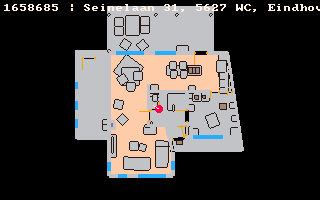
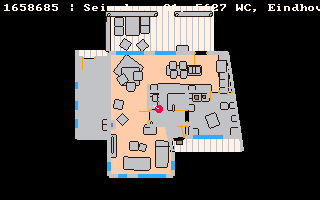
floorplan: don't drop furniture by size; gentler furniture bake
- fml2cart: --maxfurn 0 (the dynamic default now) keeps ALL items — real floor
  coverings live in surfaces[] (rs-####), so items[] are genuine objects and the
  280cm cap was wrongly dropping normal sofas/beds. Positive --maxfurn still caps.
- floorplanner dynamic bake: --saturate 1.4, no posterize (was 2.2/5) — small
  footprints + heavy saturation turned furniture into rainbow confetti.

diff --git a/fmltools/fml2cart.js b/fmltools/fml2cart.js
@@ -156,13 +156,14 @@ for (const a of areas) {
   ai++;
 }
 
-// ---- furniture: oriented boxes (filter out giant surface/ground planes) ----
+// ---- furniture: oriented boxes ----
 const furn = [];
 let skipped = 0;
 for (const it of items) {
-  // skip surface/rug/ground planes (huge flat footprints) — real furniture rarely
-  // exceeds ~2.6m on a side; these big items are the floor-covering layer instead
-  if ((it.width > opt.maxfurn) || (it.height > opt.maxfurn)) { skipped++; continue; }
+  // --maxfurn 0 (the dynamic default) keeps everything: real floor coverings live in surfaces[]
+  // (rs-#### materials), so items[] are genuine objects and shouldn't be dropped by size. A
+  // positive --maxfurn (e.g. 280, the baked-cart default) still drops huge planes if you want.
+  if (opt.maxfurn > 0 && (it.width > opt.maxfurn || it.height > opt.maxfurn)) { skipped++; continue; }
   furn.push({
     cx: PX(it.x), cy: PY(it.y),
     w: PL(it.width), h: PL(it.height),

diff --git a/fmltools/floorplanner.js b/fmltools/floorplanner.js
@@ -116,7 +116,9 @@ function fetchFml(pid, cred) {
   if (opt.fetchOnly) { console.log(fml); return; }
 
   const name = opt.name || String(opt.pid);
-  const floor = opt.floor ?? '0', scale = opt.scale ?? '8', maxfurn = opt.maxfurn ?? '280';
+  // maxfurn 0 = never drop by size (real floor coverings are surfaces[]/rs-####, not items[]).
+  // 280 was dropping normal sofas/beds, leaving only tiny decor. Pass --maxfurn N to re-enable a cap.
+  const floor = opt.floor ?? '0', scale = opt.scale ?? '8', maxfurn = opt.maxfurn ?? '0';
   const node = (script, a) => execFileSync('node', [path.join(__dirname, script), ...a], { cwd: ROOT, stdio: 'inherit' });
 
   if (opt.baked) {
@@ -137,7 +139,9 @@ function fetchFml(pid, cred) {
   console.log(`▸ geometry  -> ${dataRel}`);
   node('fml2cart.js', [fml, '--json', data, '--floor', floor, '--scale', scale, '--maxfurn', maxfurn]);
   console.log(`▸ bake art  furniture renders -> ${assets}`);
-  node('fml-assets.js', [fml, '--out', assets, '--max', '24', '--saturate', '2.2', '--posterize', '5']);
+  // gentler than the baked carts (was 2.2/posterize 5): small footprints + heavy saturation turned
+  // furniture into rainbow confetti that all read alike. 1.4 keeps natural tones, no posterize.
+  node('fml-assets.js', [fml, '--out', assets, '--max', '24', '--saturate', '1.4']);
   console.log(`▸ sprites   -> ${dataRel}`);
   node('fml-sprites.js', ['--json', data, '--manifest', path.join(assets, 'manifest.json')]);
   console.log(`▸ textures  resolve rs-#### floor materials -> ${dataRel}`);